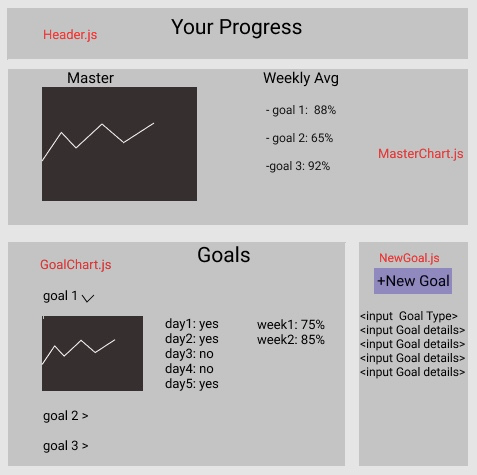
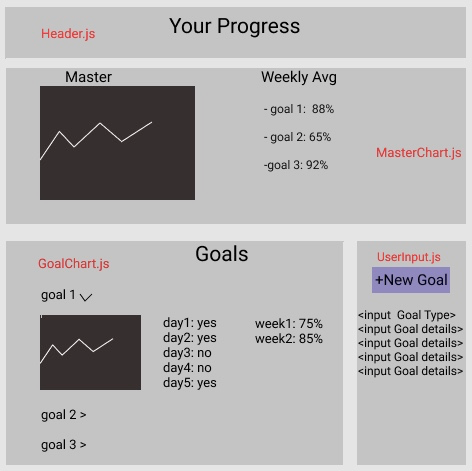
server works

diff --git a/src/Components/UserInput.js b/src/Components/UserInput.js
@@ -1,21 +1,61 @@
-import React, {Component} from 'react'
+// import React, {Component} from 'react'
 
-export default class UserInput extends Component(){
+// export default class UserInput extends Component(){
 
-  constructor(){
-    super()
-    this.state={
-      specifics: '',
-      measurable: '',
-      attainable: '',
-      relevant: '',
-      timely: '',
-    }
-  }
+//   constructor(){
+//     super()
+//     this.state={
+//       name: '',
+//       timeLine: '',
+//     }
+    
+//   }
 
-  this.props = {
-    addNewGoal () {
+//   handleChangeSpecifics(val){
+//     this.setState({specifics: val})
+//   }
+//   handleChangeMeasurable(val){
+//     this.setState({measurable: val})
+//   }
+//   handleChangeAttainable(val){
+//     this.setState({attainable: val})
+//   }
+//   handleChangeRelevant(val){
+//     this.setState({relevant: val})
+//   }
+//   handleChangeTimely(val){
+//     this.setState({timely: val})
+//   }
+
+//   handleAddNewGoal(){
+//     const {data} = this.props
+//     this.props.addNewGoal
+//   }
+
+//   // addInput(){
+//   //   const newGoal = {
+//   //     this.state.specifics,
+
+//   // }
+
+//   render(){
+//     return(
+//       <div>
+//         <input placeholder= "describe goal here" onChange= {e => this.handleChangeSpecifics(e.target.value)}/>
+
+//         <input placeholder= "how will you measure this goal?" onChange ={e => this.handleChangeMeasurable(e.target.value)}/>
+
+//         <input placeholder= "how will you know you have attained this goal?" onChange = {e => this.handleChangeAttainable(e.target.value)}/>
+
+//         <input placeholder= "how does this help you?" onChange = {e => this.handleChangeRelevant(e.target.value)}/>
+
+//         <input placeholder= "how long will this goal take to achieve?" onChange= {e => this.handleChangeTimely(e.target.value)}/>
+//       </div>
+//     )
+//   }
+//   // this.props = {
+//   //   addNewGoal () {
       
-    }
-  }
-}
+//   //   }
+//   // }
+// }

diff --git a/server/Controllers.js b/server/Controllers.js
@@ -1,0 +1,53 @@
+let goals = []
+let id = 1
+
+module.exports = {
+
+  getGoals: (req, res) => {
+    res.status(200).send(goals)
+  },
+
+  createGoal: (req, res) => {
+    const { name, timeline } = req.body
+    const didComplete = []
+    const newGoal = {id, name, timeline, didComplete }
+
+    goals.push(newGoal)
+
+    id++
+    
+    res.status(200).send(goals)
+    
+  },
+
+  //Fix This
+  updateGoal: (req, res) => {
+    const { goal_id } = req.params
+
+    const index = goals.findIndex((element) => element.id === +goal_id)
+
+    if (index === -1) {
+      return res.status(404).send('Goal not found')
+    }
+
+    const { checkDate } =  req.body
+    goals[index].didComplete.push(checkDate)
+
+    res.status(200).send(goals[index].didComplete)
+  },
+
+  deleteGoal: (req, res) => {
+    const { goal_id } = req.params
+
+    const index = goal.findIndex((element) => element.id === +goal_id)
+
+    if (index === -1) {
+      return res.status(404).send('Goal not found')
+    }
+
+    goal.splice(index, 1)
+
+    res.status(200).send(goal)
+  }
+
+}

diff --git a/src/App.js b/src/App.js
@@ -1,4 +1,10 @@
 import React, {Component} from 'react';
+import Header from './Components/Header'
+import GoalChart from './Components/GoalChart'
+import MasterChart from './Components/MasterChart'
+import UserGoals from './Components/UserGoals'
+import UserInput from './Components/UserInput'
+import axios from 'axios'
 import './App.css';
 
 class App extends Component {
@@ -13,12 +19,12 @@ class App extends Component {
     this.deleteGoal = this.deleteGoal.bind(this)
   }
 
-  componentDidMount(){
-
-  }
-
   addNewGoal() {
-    this.setState({goals: [...this.state.goals, this.props.newGoal]})
+    const postData = { name: 'andy', timeline: 'now' }
+    
+    axios.post('/api/goals', postData).then(res => {
+      this.setState({goals: [...this.state.goals, res.body]})
+    })
   }
 
   updateGoal(){
@@ -32,10 +38,9 @@ class App extends Component {
   render(){
     return (
       <div className="App">
-        {/* <Header />
+        <Header />
         <MasterChart />
         <GoalChart />
-        <NewGoal /> */}
       </div>
     );
   }

diff --git a/server/index.js b/server/index.js
@@ -1,14 +1,14 @@
 const express = require('express')
 const app = express()
-const newGoalCtrl = require('./controllers/addNewGoal')
+const newGoalCtrl = require('./Controllers.js')
 const SERVER_PORT = 4625
 
 app.use(express.json())
 
-app.get('/api/goal', newGoalCtrl.getNewGoal)
-app.post('/api/goal', newGoalCtrl.postNewGoal)
-app.put('/api/goal/:goal_id', newGoalCtrl.updateGoal)
-app.delete('/api/goal/:goal_id', newGoalCtrl.deleteGoal)
+app.get('/api/goals', newGoalCtrl.getGoals)
+app.post('/api/goals', newGoalCtrl.createGoal)
+app.put('/api/goal/:goals_id', newGoalCtrl.updateGoal)
+app.delete('/api/goal/:goals_id', newGoalCtrl.deleteGoal)
 
 app.listen(SERVER_PORT, () => 
   console.log(`Listening on port ${SERVER_PORT}`)

diff --git a/src/Components/UserGoals.js b/src/Components/UserGoals.js
@@ -1,0 +1,21 @@
+// import React, {Component} from 'react'
+// import GoalChart from './GoalChart'
+
+// function UserGoals(props){
+//   const goalMap = props.goals.map(e => (
+//     <GoalChart
+//       key={e.id}
+//       updateGoal={props.updateGoal}
+//       deleteGoal={props.deleteGoal}
+//     />
+//   ))
+
+//   return (
+//     <div>
+//       <h2>Pokedex</h2>
+//       <div>{goalMap}</div>
+//     </div>
+//   )
+// }
+
+// export default UserGoals

diff --git a/src/Components/GoalChart.js b/src/Components/GoalChart.js
@@ -1,0 +1,22 @@
+// import React, {Component} from 'react'
+
+// export default class GoalChart extends Component{
+
+//   constructor(){
+//     super()
+//     this.state = {
+//       isDisplayed: false
+//     }
+//   }
+
+
+//   render(){
+//     return (
+//       <div className= "App">
+//         <h1> Your Goals </h1>
+//         <div className = "goals-list">{this.props.goals}</div>
+//       </div>
+//     )
+//   }
+
+// }

diff --git a/src/Components/Header.js b/src/Components/Header.js
@@ -1,0 +1,11 @@
+// import React from 'react'
+
+// function Header(props) {
+//   return (
+//     <header>
+//       <h1>Goal Mate</h1>
+//     </header>
+//   )
+// }
+
+// export default Header
